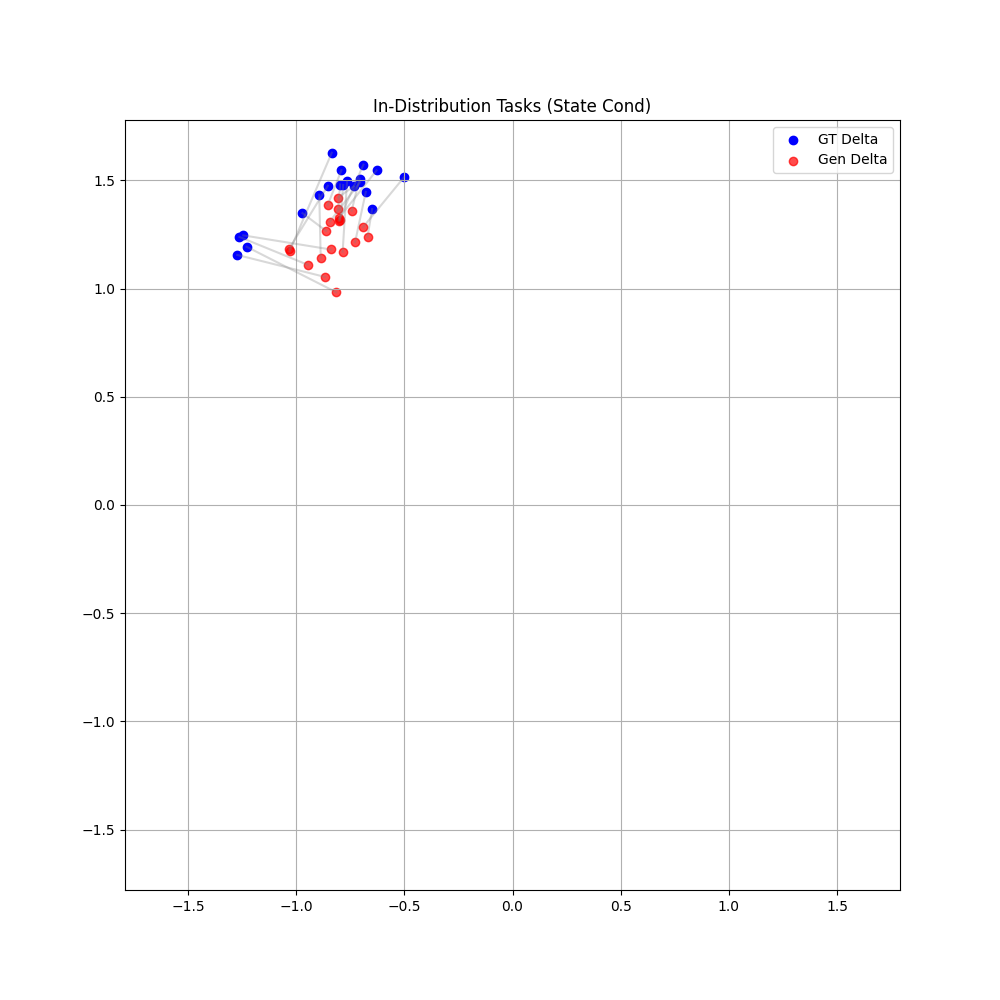
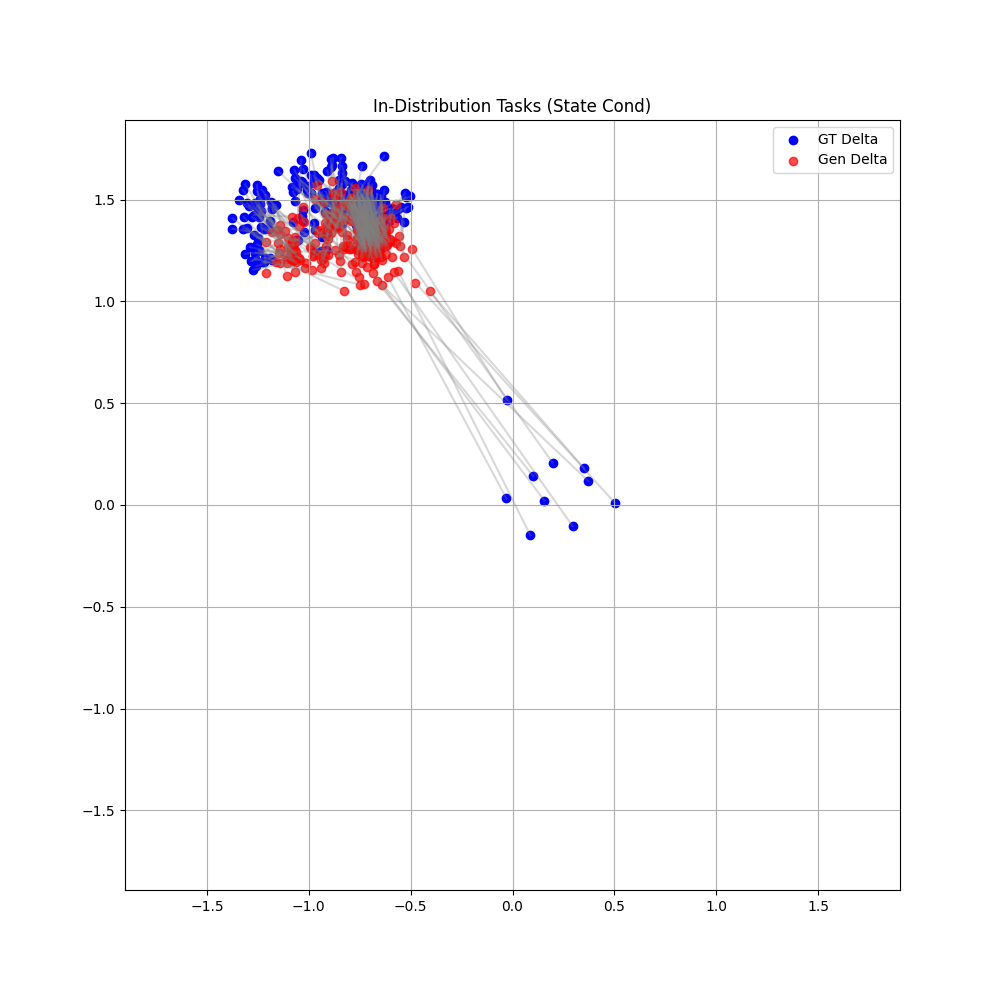
Enhance task parameter computation and visualization by adding normalization option and updating related scripts

diff --git a/inference.py b/inference.py
@@ -10,46 +10,7 @@ from scipy.spatial.transform import Slerp
 from config.configure import load_config, get_data_path, get_norm_path
 from models.model import RobotDiffuser
 from datasets.flexible_dataset import FlexibleWindowDataset, yaw_to_rot_matrix, yaw_from_quat
-from utils.math.sbto_utils import reconstruct_sbto_trajectory
-
-def compute_task_params(current_robot_state, current_obj_state, desired_obj_pos):
-    """
-    Computes the task parameters (local object displacement) for the diffusion model.
-
-    Args:
-        current_robot_state (np.ndarray): Shape (7,) or (3,) [x, y, z, qx, qy, qz, qw]
-                                          representing the robot base pose.
-        current_obj_state (np.ndarray): Shape (3,) or (7,) [x, y, z, ...]
-                                        representing the current object position.
-        desired_obj_pos (np.ndarray): Shape (3,) [x, y, z] 
-                                      representing the GOAL object position in world frame.
-
-    Returns:
-        np.ndarray: Shape (2,) [delta_x_local, delta_y_local] normalized if needed.
-    """
-    # 1. Extract Positions
-    curr_obj_pos = current_obj_state[:3]  # We only care about X, Y for displacement
-    goal_obj_pos = desired_obj_pos[:3]
-    
-    # 2. Calculate World Displacement
-    world_delta = goal_obj_pos - curr_obj_pos
-    
-    # 3. Extract Robot Yaw
-    if len(current_robot_state) >= 7:
-        quat = current_robot_state[3:7]
-    else:
-        quat = current_robot_state
-    R_ref_inv = yaw_to_rot_matrix(-yaw_from_quat(quat))
-
-    # 4. Rotate into Robot Frame (Global -> Local)
-    local_delta = (R_ref_inv @ world_delta[..., None])[..., 0]
-
-    # local_delta_norm = np.linalg.norm(local_delta)
-    
-    # if local_delta_norm > 1e-6:
-    #     local_delta = local_delta / local_delta_norm
-    
-    return local_delta
+from utils.math.sbto_utils import reconstruct_sbto_trajectory, compute_task_params
 
 def update_condition(dataset, robot_world_history, obj_world_history, final_obj_pos=None):
     """
@@ -218,7 +179,7 @@ def main():
 
     # Override task params if provided
     if args.task_params is not None:
-        print(f"Overriding task params with: {args.task_params}")
+        print(f"Overriding final box pos {anchor['final_obj_pos']} with: {args.task_params}")
         anchor["final_obj_pos"] = torch.tensor(args.task_params, dtype=torch.float32)
 
     current_anchors = {
@@ -245,7 +206,8 @@ def main():
         tp_init = compute_task_params(
             current_robot_state=current_anchors['ref_quat'], 
             current_obj_state=current_anchors['ref_obj_pos'], 
-            desired_obj_pos=current_anchors["final_obj_pos"]
+            desired_obj_pos=current_anchors["final_obj_pos"],
+            normalize_goal_vec=data_cfg.get("normalize_goal_vec", False),
         )[..., :data_cfg["num_task_params"]]
         task_params = dataset._normalize("task_params", tp_init)
         task_tens = task_params.repeat(args.num_samples, 1)
@@ -336,7 +298,7 @@ def main():
         start_obj = full_trajectory[0, 0, 36 : 36 + data_cfg["num_task_params"]]
         end_obj = full_trajectory[0, -1, 36 : 36 + data_cfg["num_task_params"]]
         achieved_displacement = (end_obj - start_obj)[..., :data_cfg['num_task_params']]
-        desired_displacement = (current_anchors["final_obj_pos"] - anchor["ref_obj_pos"])[..., :data_cfg['num_task_params']]
+        desired_displacement = (anchor["final_obj_pos"] - anchor["ref_obj_pos"])[..., :data_cfg['num_task_params']]
         try:            
             print("-" * 30)
             print(f"Goal: Full Trajectory Displacement")

diff --git a/utils/visualize/visualize_param_sweep.py b/utils/visualize/visualize_param_sweep.py
@@ -10,46 +10,7 @@ import matplotlib.cm as cm
 from config.configure import load_config, get_data_path, get_norm_path
 from models.model import RobotDiffuser
 from datasets.flexible_dataset import FlexibleWindowDataset, yaw_to_rot_matrix, yaw_from_quat
-from utils.math.sbto_utils import reconstruct_sbto_trajectory
-
-def compute_task_params(current_robot_state, current_obj_state, desired_obj_pos):
-    """
-    Computes the task parameters (local object displacement) for the diffusion model.
-
-    Args:
-        current_robot_state (np.ndarray): Shape (7,) or (3,) [x, y, z, qx, qy, qz, qw]
-                                          representing the robot base pose.
-        current_obj_state (np.ndarray): Shape (3,) or (7,) [x, y, z, ...]
-                                        representing the current object position.
-        desired_obj_pos (np.ndarray): Shape (3,) [x, y, z] 
-                                      representing the GOAL object position in world frame.
-
-    Returns:
-        np.ndarray: Shape (2,) [delta_x_local, delta_y_local] normalized if needed.
-    """
-    # 1. Extract Positions
-    curr_obj_pos = current_obj_state[:3]  # We only care about X, Y for displacement
-    goal_obj_pos = desired_obj_pos[:3]
-    
-    # 2. Calculate World Displacement
-    world_delta = goal_obj_pos - curr_obj_pos
-    
-    # 3. Extract Robot Yaw
-    if len(current_robot_state) >= 7:
-        quat = current_robot_state[3:7]
-    else:
-        quat = current_robot_state
-    R_ref_inv = yaw_to_rot_matrix(-yaw_from_quat(quat))
-
-    # 4. Rotate into Robot Frame (Global -> Local)
-    local_delta = (R_ref_inv @ world_delta[..., None])[..., 0]
-
-    # local_delta_norm = np.linalg.norm(local_delta)
-    
-    # if local_delta_norm > 1e-6:
-    #     local_delta = local_delta / local_delta_norm
-    
-    return local_delta
+from utils.math.sbto_utils import reconstruct_sbto_trajectory, compute_task_params
 
 def update_condition(dataset, robot_world_history, obj_world_history, final_obj_pos=None):
     """
@@ -136,7 +97,7 @@ def parse_args():
     # Dataset Task Params
     parser.add_argument("--num_dataset_tasks", type=int, default=0, help="Number of tasks to sample from dataset (In-Distribution)")
     parser.add_argument("--num_ood_tasks", type=int, default=0, help="Number of out-of-distribution tasks to generate (Random/Grid)")
-    parser.add_argument("--seed", type=int, default=42)
+    parser.add_argument("--seed", type=int, default=None)
 
     # Guidance
     parser.add_argument("--guidance_wt", type=float, default=0.0)
@@ -180,7 +141,10 @@ def run_evaluation_batch(
             c_obj = current_anchors['ref_obj_pos'][bi]
             c_goal = current_anchors['final_obj_pos'][bi]
             
-            tp = compute_task_params(c_quat, c_obj, c_goal)[..., :diffuser.data_cfg["num_task_params"]] # (2,) or (3,) depending on impl
+            tp = compute_task_params(
+                c_quat, c_obj, c_goal,
+                normalize_goal_vec=dataset.data_cfg.get("normalize_goal_vec", False)
+            )[..., :diffuser.data_cfg["num_task_params"]] # (2,) or (3,) depending on impl
             new_task_list.append(tp)
         
         new_task_arr = np.stack(new_task_list)

diff --git a/utils/math/sbto_utils.py b/utils/math/sbto_utils.py
@@ -672,3 +672,42 @@ def compute_guidance_vec(current_pos, target_pos, R_robot_yaw_inv, current_rot=N
         return np.concatenate([guidance_dir, guidance_rot6d, dist], axis=-1).squeeze(1)
 
     return np.concatenate([guidance_dir, dist], axis=-1).squeeze(1)
+
+def compute_task_params(current_robot_state, current_obj_state, desired_obj_pos, normalize_goal_vec=True):
+    """
+    Computes the task parameters (local object displacement) for the diffusion model.
+
+    Args:
+        current_robot_state (np.ndarray): Shape (7,) or (3,) [x, y, z, qx, qy, qz, qw]
+                                          representing the robot base pose.
+        current_obj_state (np.ndarray): Shape (3,) or (7,) [x, y, z, ...]
+                                        representing the current object position.
+        desired_obj_pos (np.ndarray): Shape (3,) [x, y, z] 
+                                      representing the GOAL object position in world frame.
+
+    Returns:
+        np.ndarray: Shape (2,) [delta_x_local, delta_y_local] normalized if needed.
+    """
+    # 1. Extract Positions
+    curr_obj_pos = current_obj_state[:3]  # We only care about X, Y for displacement
+    goal_obj_pos = desired_obj_pos[:3]
+    
+    # 2. Calculate World Displacement
+    world_delta = goal_obj_pos - curr_obj_pos
+    
+    # 3. Extract Robot Yaw
+    if len(current_robot_state) >= 7:
+        quat = current_robot_state[3:7]
+    else:
+        quat = current_robot_state
+    R_ref_inv = yaw_to_rot_matrix(-yaw_from_quat(quat))
+
+    # 4. Rotate into Robot Frame (Global -> Local)
+    local_delta = (R_ref_inv @ world_delta[..., None])[..., 0]
+
+    if normalize_goal_vec:    
+        local_delta_norm = np.linalg.norm(local_delta)
+        if local_delta_norm > 1e-6:
+            local_delta = local_delta / local_delta_norm
+    
+    return local_delta

diff --git a/datasets/flexible_dataset.py b/datasets/flexible_dataset.py
@@ -4,7 +4,6 @@ import os
 import glob
 import re
 import yaml
-import collections
 from torch.utils.data import Dataset
 from tqdm import tqdm
 
@@ -42,6 +41,7 @@ class FlexibleWindowDataset(Dataset):
         self.stride = config.get("stride", 1)
         self.downsample = config.get("downsample", 1)
         self.start_timestep = config.get("start_timestep", 0)
+        self.normalize_goal_vec = config.get("normalize_goal_vec", True)
 
         self.add_noise = add_noise
         self.add_goal_noise = add_goal_noise
@@ -322,9 +322,10 @@ class FlexibleWindowDataset(Dataset):
             disp_vector_global = (obj_traj[-1, :3] - obj_traj[start_idx, :3])
             R_ref_inv = yaw_to_rot_matrix(-yaw_from_quat(base_traj[start_idx, 3:]))
             disp_vector = (R_ref_inv @ disp_vector_global)[:2] # (2,)
-            # disp_vector_norm = np.linalg.norm(disp_vector)
-            # if disp_vector_norm > 1e-6:
-            #     disp_vector = disp_vector / disp_vector_norm
+            if self.normalize_goal_vec:
+                disp_vector_norm = np.linalg.norm(disp_vector)
+                if disp_vector_norm > 1e-6:
+                    disp_vector = disp_vector / disp_vector_norm
             return disp_vector
         return np.zeros(2)
 
@@ -432,10 +433,9 @@ class FlexibleWindowDataset(Dataset):
         future_states = window_tensor[self.history_size:, :].clone()
 
         task_params = torch.from_numpy(features["task_params"]).float()
-
+        task_params = self._normalize("task_params", task_params)
         if self.add_goal_noise:
             task_params = self._add_obs_noise(task_params, "task_params")
-        task_params = self._normalize("task_params", task_params)
 
         return future_states, current_state, task_params, anchor
 

diff --git a/train.py b/train.py
@@ -46,10 +46,7 @@ def compute_dataset_weights(dataset, sigma=0.2):
     
     tp_list = []
     key_list = []
-    
-    # Pre-fetch if possible to avoid redundant file reads
-    # But _get_single_traj uses ram_cache so it's fast
-    
+        
     for f, b in tqdm(unique_traj_keys, desc="Extracting Task Params"):
         raw = dataset._get_single_traj(f, b)
         tp_raw = dataset._compute_task_params(raw['base'], raw['obj'], start_idx=0)

diff --git a/models/dfot_trajectory.py b/models/dfot_trajectory.py
@@ -151,6 +151,10 @@ class DFoTTrajectory(nn.Module):
             "beta_schedule": beta_schedule,
             "schedule_fn_kwargs": {"shift": 1.0},
             "objective": objective,
+            # "loss_weighting": {
+            #     "strategy": "goal-weighted",
+            #     "final_frame_weight": 5.0,
+            # },
             "loss_weighting": {
                 "strategy": "fused_min_snr",
                 "snr_clip": 5.0,

diff --git a/diffusion_forcing_transformer/discrete_diffusion.py b/diffusion_forcing_transformer/discrete_diffusion.py
@@ -241,6 +241,10 @@ class DiscreteDiffusion(nn.Module):
     ) -> torch.Tensor:
         if strategy == "uniform":
             return torch.ones_like(k)
+        if strategy == "goal-weighted":
+            weights = torch.ones_like(k)
+            weights[..., -1] = weights[..., -1] * self.loss_weighting.final_frame_weight
+            return weights
         snr = self.snr[k]
         epsilon_weighting = None
         match strategy:
